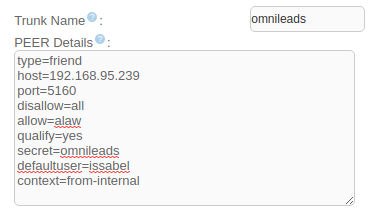
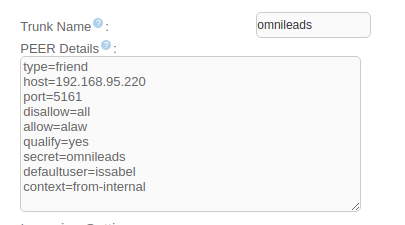
- se modifica archivo .env para que acepte external_hostname y external_port desde inventory - se modifica tareas de postgres para resolver creacion de usuario en docker prodenv

diff --git a/configuracion_telefonia_app/static/configuracion_telefonia_app/JS/troncal.js b/configuracion_telefonia_app/static/configuracion_telefonia_app/JS/troncal.js
@@ -72,7 +72,7 @@ accepts_registrations=no\n\
 sends_auth=yes\n\
 sends_registrations=no\n\
 accepts_auth=yes\n\
-endpoint/rtp_symmetric=nov\n\
+endpoint/rtp_symmetric=no\n\
 endpoint/force_rport=no\n\
 endpoint/rewrite_contact=no\n\
 endpoint/timers=yes\n\
@@ -112,15 +112,15 @@ outbound_auth/password=****SIP_PASS OML -> PBX****\n\
 endpoint/from_user=****SIP_USER OML -> PBX****',
     },
     {
-        'name': 'OMniLeads inside PBX',
+        'name': 'OML Docker',
         'template':
         'type=wizard\n\
 transport=trunk-nat-docker-transport\n\
 accepts_registrations=no\n\
 sends_auth=yes\n\
-sends_registrations=no\n\
-accepts_auth=yes\n\
-endpoint/rtp_symmetric=nov\n\
+sends_registrations=yes\n\
+accepts_auth=no\n\
+endpoint/rtp_symmetric=yes\n\
 endpoint/force_rport=yes\n\
 endpoint/rewrite_contact=yes\n\
 endpoint/timers=yes\n\

diff --git a/docs/telephony_pjsip_templates.rst b/docs/telephony_pjsip_templates.rst
@@ -1,5 +1,15 @@
 .. _about_telephony_pjsip_internet_provider:
 
+.. important::
+
+  Debemos recordar muy bien que OMniLeads NO utiliza el puerto 5060 como puerto para los troncales SIP. El puerto 5060 es utilizado por Kamailio en su labor WebRTC
+  en sesiones contra los agentes. A la hora de generar un troncal SIP entre OML y un proveedor SIP o PBX, debemos saber que los puertos a utilizar son y varian
+  de acuerdo a los escenrios debajo descriptos.
+
+  - Puerto **5161** para troncales donde NO debemos advertir la IP publica. Es decir donde no hay NAT de por medio.
+  - Puerto **5162** para troncales donde SI debemos advertir la IP pública que va a afectar con NAT los paquetes SIP que salgan de OML.
+  - Puerto **5163** para troncales utilizando OML sobre Docker.
+
 ***********************************************
 Troncal contra un proveedor SIP sobre Internet
 ***********************************************
@@ -135,7 +145,7 @@ generada del lado de la IP-PBX es:
   sends_auth=yes
   sends_registrations=no
   accepts_auth=yes
-  endpoint/rtp_symmetric=nov
+  endpoint/rtp_symmetric=no
   endpoint/force_rport=no
   endpoint/rewrite_contact=no
   endpoint/timers=yes
@@ -238,7 +248,7 @@ Por ello es que la plantilla de configuración cambia en un par de parámetros:
  sends_auth=yes
  sends_registrations=no
  accepts_auth=yes
- endpoint/rtp_symmetric=nov
+ endpoint/rtp_symmetric=yes
  endpoint/force_rport=yes
  endpoint/rewrite_contact=yes
  endpoint/timers=yes
